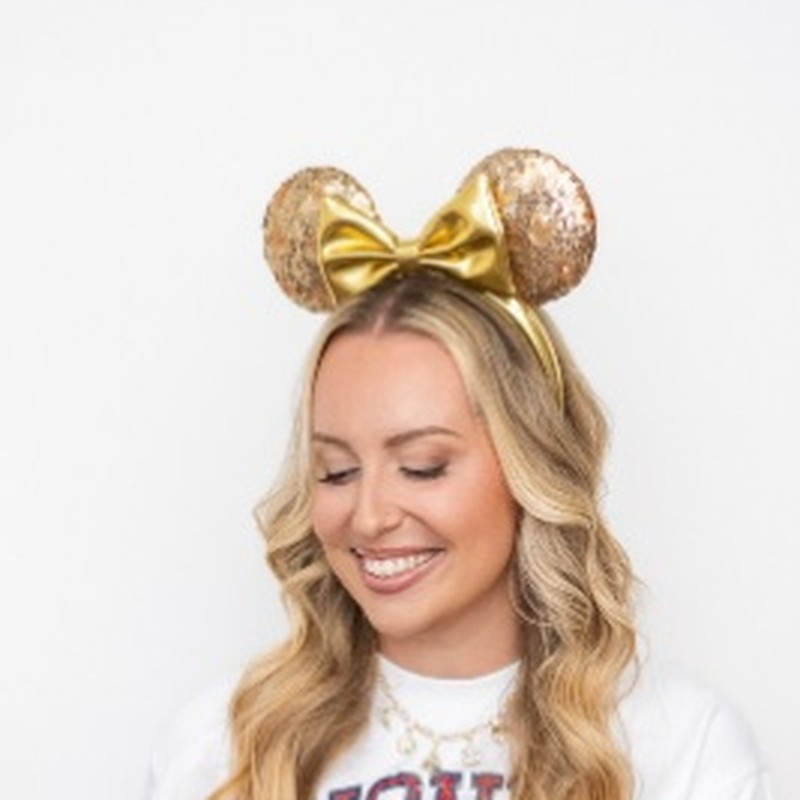
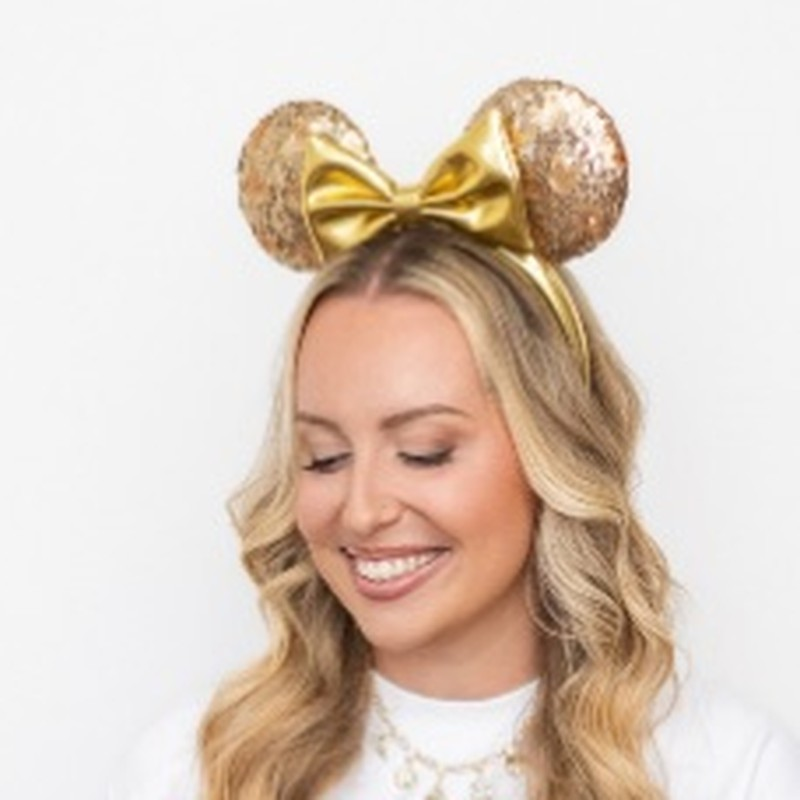
Zoom Emily’s directory headshot in slightly.
Prior crop left too much empty space versus the other agent circles.

diff --git a/articles/welcome-aboard-emily.html b/articles/welcome-aboard-emily.html
@@ -122,7 +122,7 @@
       <p class="article-meta">Published August 7, 2026 · <a href="/agents/" style="color:var(--teal);">Travel agents</a></p>
 
       <div class="agent-feature-hero">
-        <div class="agent-feature-photo"><img src="/assets/agent-photos/emily-schultz.jpg?v=2" alt="Emily Schultz"></div>
+        <div class="agent-feature-photo"><img src="/assets/agent-photos/emily-schultz.jpg?v=3" alt="Emily Schultz"></div>
         <div>
           <h2>Emily Schultz</h2>
           <p class="meta">Magic Mom Travel · Waukesha, WI (remote)</p>

diff --git a/assets/agents-data.js b/assets/agents-data.js
@@ -98,7 +98,7 @@ window.CC_profilePath = function (agent) {
 
 /** Pre-cropped headshots for directory circles (full-body uploads stay in blob storage). */
 window.CC_AGENT_PHOTO_OVERRIDES = {
-  "emily-schultz": "/assets/agent-photos/emily-schultz.jpg?v=2",
+  "emily-schultz": "/assets/agent-photos/emily-schultz.jpg?v=3",
   "martina-yost": "/assets/agent-photos/martina-yost.jpg?v=2",
   "kim-fanning": "/assets/agent-photos/kim-fanning.jpg?v=2",
   "donna-walters": "/assets/agent-photos/donna-walters.jpg?v=2",
